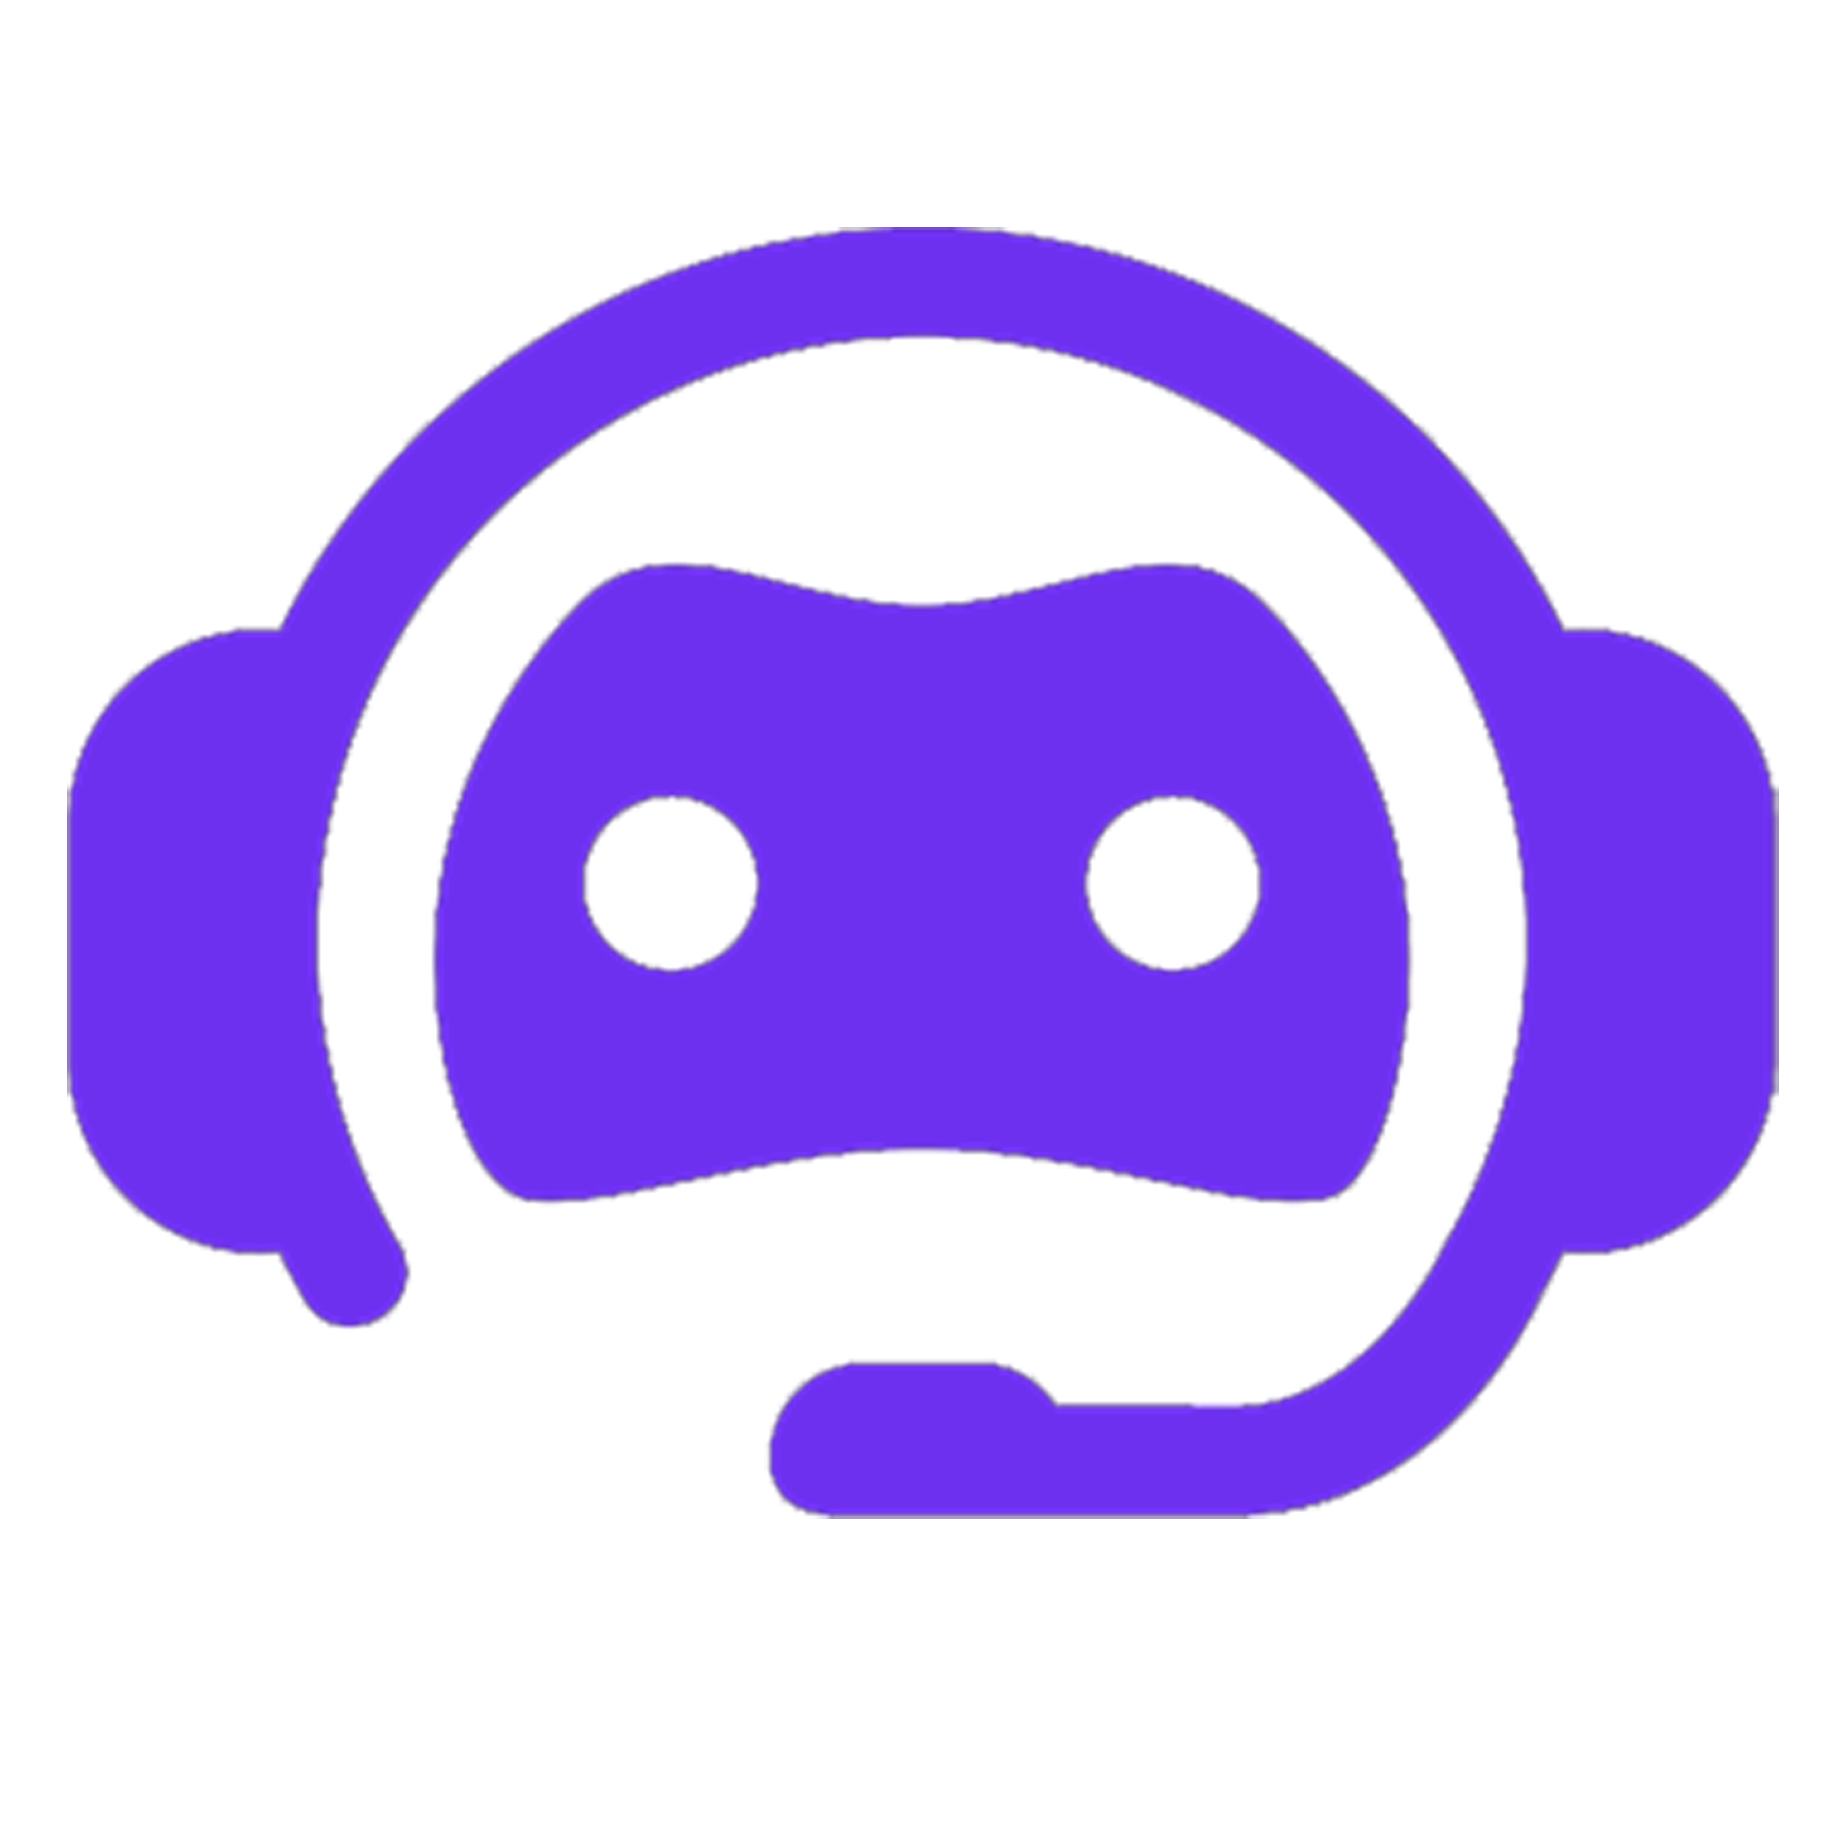
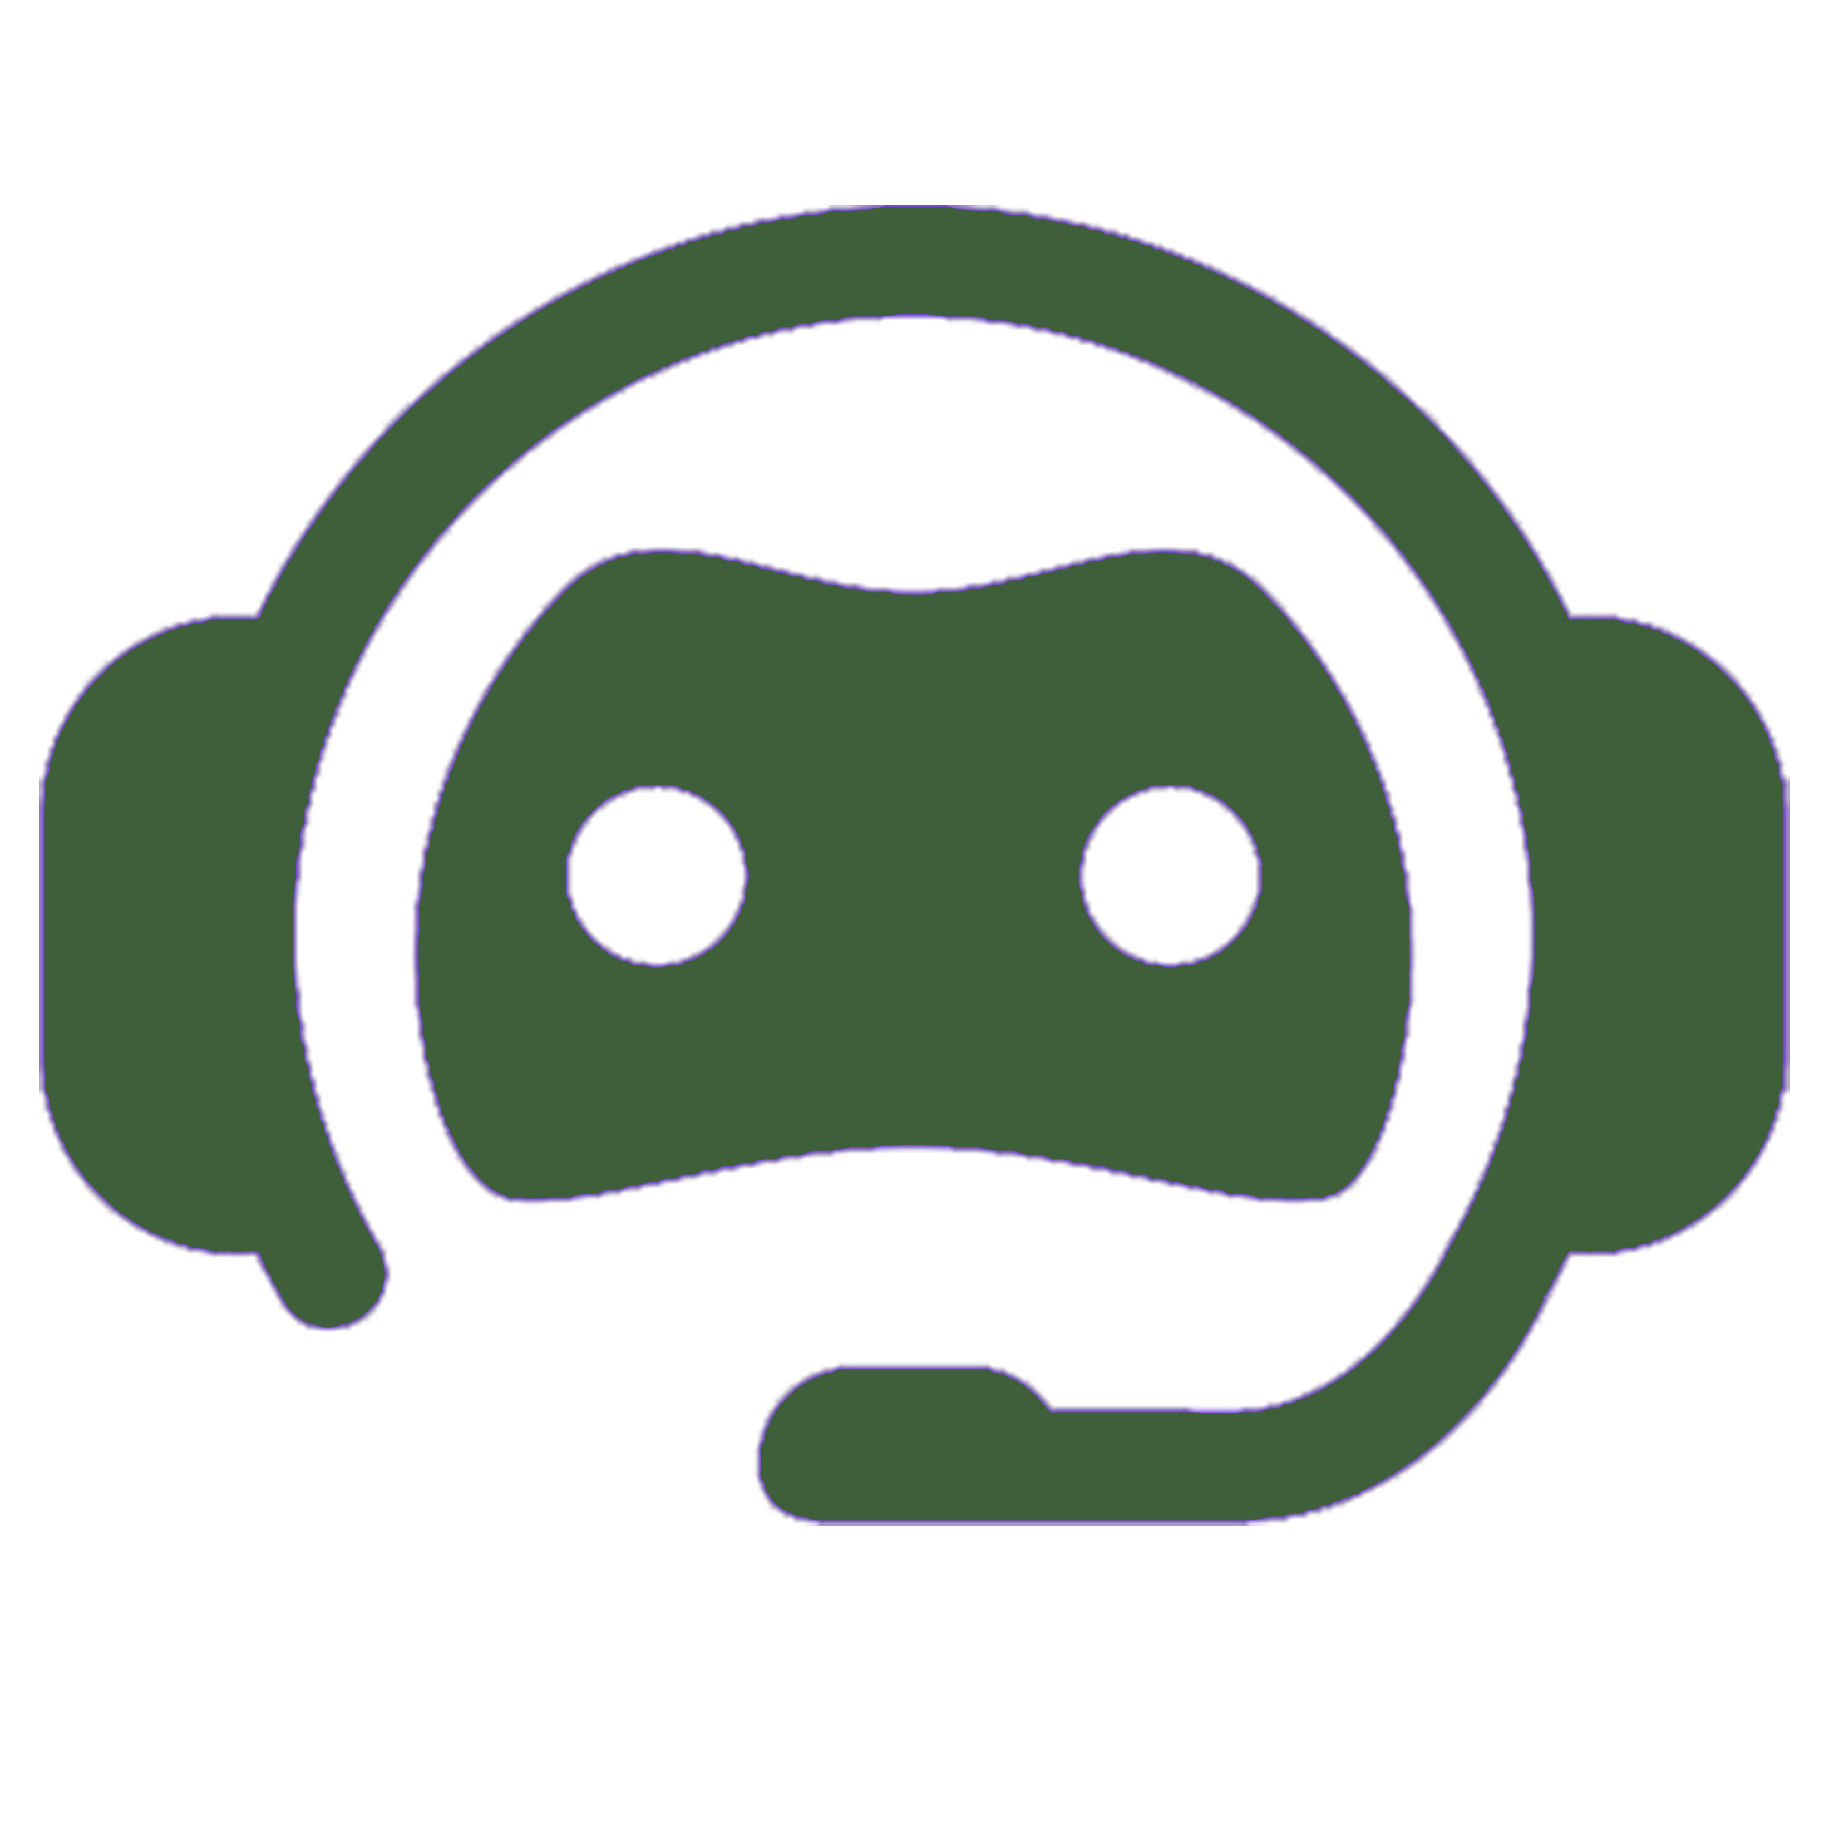
atualizado

diff --git a/frontend/src/App.js b/frontend/src/App.js
@@ -37,7 +37,7 @@ const App = () => {
                 },
                 "&::-webkit-scrollbar-thumb": {
                     boxShadow: 'inset 0 0 6px rgba(0, 0, 0, 0.3)',
-                    backgroundColor: "#586CFA",
+                    backgroundColor: "#9faf9d",
                 },
             },
             scrollbarStylesSoft: {
@@ -45,14 +45,14 @@ const App = () => {
                     width: "8px",
                 },
                 "&::-webkit-scrollbar-thumb": {
-                    backgroundColor: mode === "light" ? "#F3F3F3" : "#333333",
+                    backgroundColor: mode === "light" ? "#9faf9d" : "#333333",
                 },
             },
             palette: {
                 type: mode,
-                primary: { main: mode === "light" ? "#682EE4" : "#FFFFFF" },
-                textPrimary: mode === "light" ? "#682EE4" : "#FFFFFF",
-                borderPrimary: mode === "light" ? "#682EE4" : "#FFFFFF",
+                primary: { main: mode === "light" ? "#3e5f3a" : "#FFFFFF" },
+                textPrimary: mode === "light" ? "#3e5f3a" : "#FFFFFF",
+                borderPrimary: mode === "light" ? "#3e5f3a" : "#FFFFFF",
                 dark: { main: mode === "light" ? "#333333" : "#F3F3F3" },
                 light: { main: mode === "light" ? "#F3F3F3" : "#333333" },
                 tabHeaderBackground: mode === "light" ? "#EEE" : "#666",
@@ -73,10 +73,10 @@ const App = () => {
                 total: mode === "light" ? "#fff" : "#222",
                 messageIcons: mode === "light" ? "grey" : "#F3F3F3",
                 inputBackground: mode === "light" ? "#FFFFFF" : "#333",
-                barraSuperior: mode === "light" ? "linear-gradient(to right, #682EE4, #682EE4 , #682EE4)" : "#666",
+                barraSuperior: mode === "light" ? "linear-gradient(to right, #3e5f3a, #3e5f3a , #3e5f3a)" : "#666",
 				boxticket: mode === "light" ? "#EEE" : "#666",
 				campaigntab: mode === "light" ? "#ededed" : "#666",
-				mediainput: mode === "light" ? "#ededed" : "#1c1c1c",
+				mediainput: mode === "light" ? "#9faf9d" : "#1c1c1c",
             },
             mode,
         },
